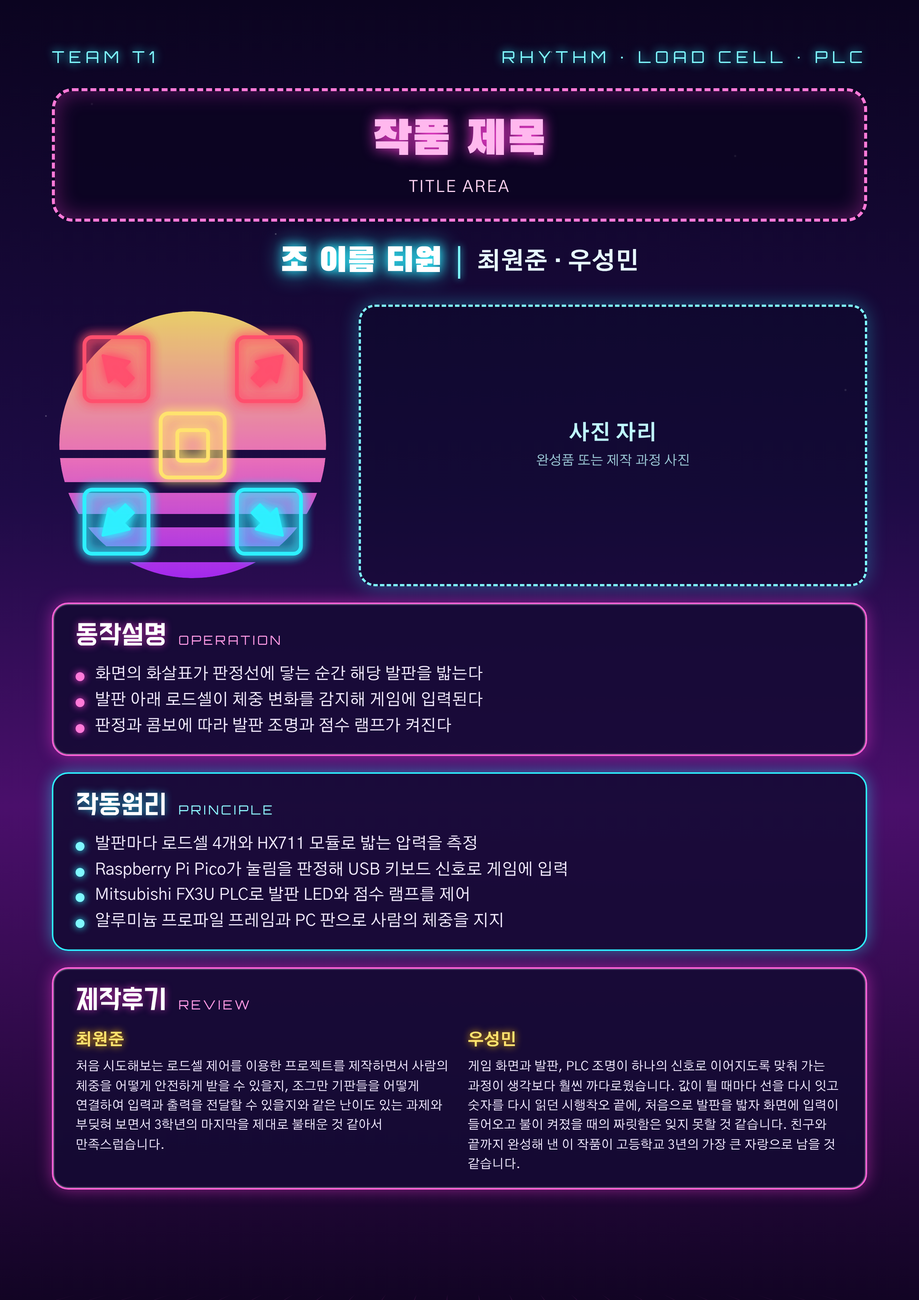
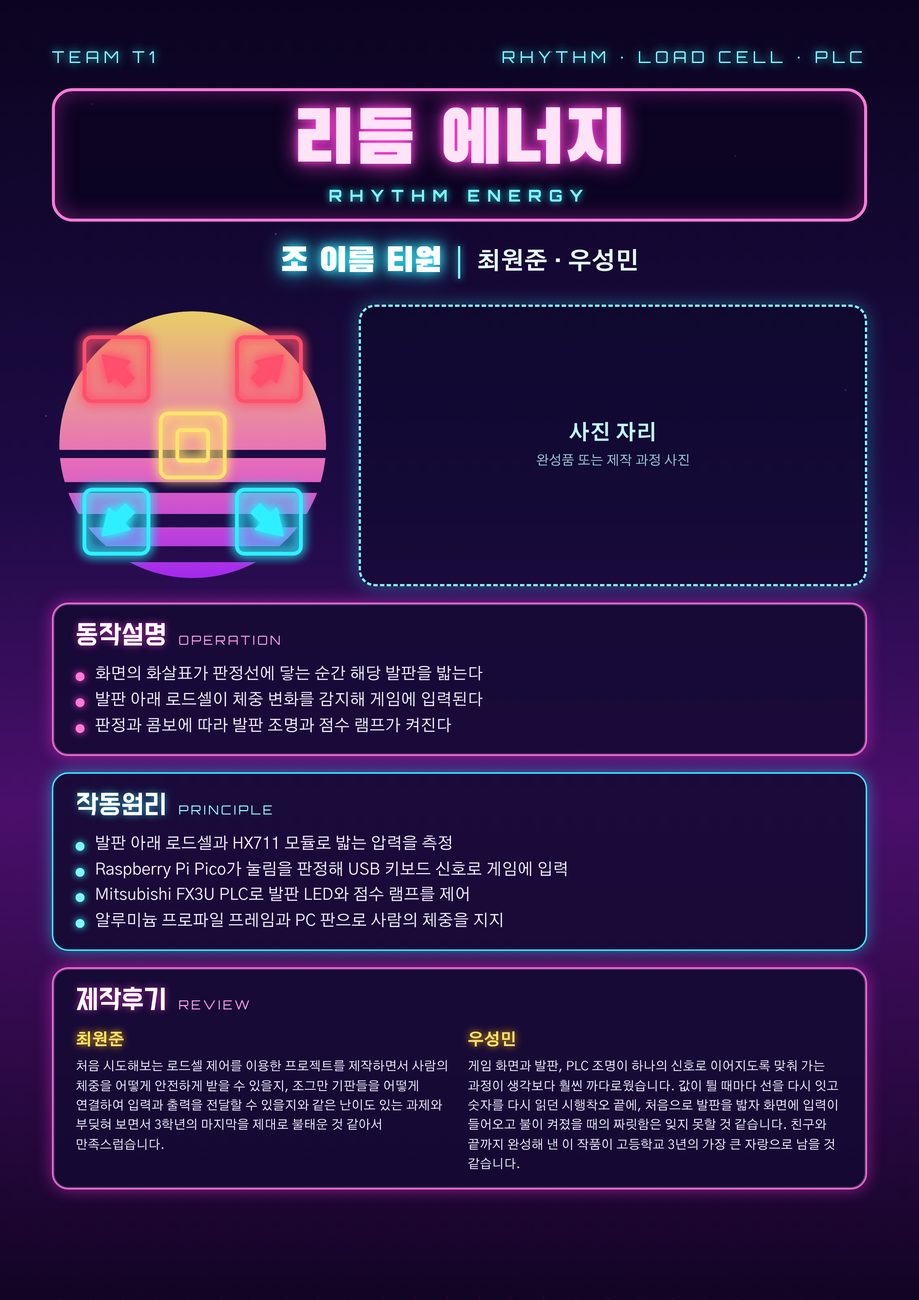
Promo panels: title 리듬 에너지 (RHYTHM ENERGY)
Claude-Session: https://claude.ai/code/session_017mQLC99LuXkG43AoP2QRiE

Changed region(s): [[0.3105, 0.0621, 0.7141, 0.1554], [0.2173, 0.6214, 0.4968, 0.6525], [0.1552, 0.6214, 0.1863, 0.6525]]

diff --git a/promo/panel-B.html b/promo/panel-B.html
@@ -13,8 +13,8 @@ body:after{content:"";position:absolute;inset:0;background:repeating-linear-grad
 .hud{display:flex;justify-content:space-between;font-family:Orbitron;font-weight:700;font-size:20px;letter-spacing:4px;color:#b6ff3b;text-shadow:0 0 10px #8cff00}
 .hud em{font-style:normal;color:#ff4fa8;text-shadow:0 0 10px #ff2a8a}
 .title{position:relative;margin-top:26px;height:200px;border:3px solid #b6ff3b;display:flex;flex-direction:column;align-items:center;justify-content:center;
- font-family:'Black Han Sans';font-size:62px;color:#d8ff9a;text-shadow:0 0 16px #8cff00;background:#b6ff3b0d}
-.title small{font-family:Orbitron;font-size:18px;letter-spacing:6px;margin-top:6px;color:#b6ff3baa;text-shadow:none}
+ font-family:'Black Han Sans';font-size:100px;line-height:1;color:#efffd6;text-shadow:0 0 10px #8cff00,0 0 28px #8cff00;background:#b6ff3b0d}
+.title small{font-family:Orbitron;font-weight:700;font-size:20px;letter-spacing:10px;margin-top:12px;color:#ff4fa8;text-shadow:0 0 10px #ff2a8a}
 .corner{position:absolute;width:26px;height:26px;border:5px solid #ff4fa8;box-shadow:0 0 10px #ff2a8a}
 .tl{left:-12px;top:-12px;border-right:0;border-bottom:0}.tr{right:-12px;top:-12px;border-left:0;border-bottom:0}
 .bl{left:-12px;bottom:-12px;border-right:0;border-top:0}.br{right:-12px;bottom:-12px;border-left:0;border-top:0}
@@ -46,12 +46,12 @@ body:after{content:"";position:absolute;inset:0;background:repeating-linear-grad
 .rv b{display:block;font-size:21px;color:#fff;margin-bottom:6px}
 </style></head><body><div class="lanes"><div class="lane"><div class="note" style="top:100px;background:#ff4f6d;box-shadow:0 0 14px #ff4f6d"></div><div class="note" style="top:160px;background:#ff4f6d;box-shadow:0 0 14px #ff4f6d"></div><div class="note" style="top:220px;background:#ff4f6d;box-shadow:0 0 14px #ff4f6d"></div><div class="note" style="top:280px;background:#ff4f6d;box-shadow:0 0 14px #ff4f6d"></div><div class="note" style="top:640px;background:#ff4f6d;box-shadow:0 0 14px #ff4f6d"></div><div class="note" style="top:760px;background:#ff4f6d;box-shadow:0 0 14px #ff4f6d"></div></div><div class="lane"><div class="note" style="top:100px;background:#2ef0ff;box-shadow:0 0 14px #2ef0ff"></div><div class="note" style="top:400px;background:#2ef0ff;box-shadow:0 0 14px #2ef0ff"></div><div class="note" style="top:700px;background:#2ef0ff;box-shadow:0 0 14px #2ef0ff"></div><div class="note" style="top:1000px;background:#2ef0ff;box-shadow:0 0 14px #2ef0ff"></div><div class="note" style="top:1120px;background:#2ef0ff;box-shadow:0 0 14px #2ef0ff"></div><div class="note" style="top:1180px;background:#2ef0ff;box-shadow:0 0 14px #2ef0ff"></div></div><div class="lane"><div class="note" style="top:160px;background:#ffe36e;box-shadow:0 0 14px #ffe36e"></div><div class="note" style="top:460px;background:#ffe36e;box-shadow:0 0 14px #ffe36e"></div><div class="note" style="top:820px;background:#ffe36e;box-shadow:0 0 14px #ffe36e"></div><div class="note" style="top:1120px;background:#ffe36e;box-shadow:0 0 14px #ffe36e"></div><div class="note" style="top:1240px;background:#ffe36e;box-shadow:0 0 14px #ffe36e"></div><div class="note" style="top:1300px;background:#ffe36e;box-shadow:0 0 14px #ffe36e"></div></div><div class="lane"><div class="note" style="top:100px;background:#2ef0ff;box-shadow:0 0 14px #2ef0ff"></div><div class="note" style="top:220px;background:#2ef0ff;box-shadow:0 0 14px #2ef0ff"></div><div class="note" style="top:460px;background:#2ef0ff;box-shadow:0 0 14px #2ef0ff"></div><div class="note" style="top:820px;background:#2ef0ff;box-shadow:0 0 14px #2ef0ff"></div><div class="note" style="top:1060px;background:#2ef0ff;box-shadow:0 0 14px #2ef0ff"></div><div class="note" style="top:1120px;background:#2ef0ff;box-shadow:0 0 14px #2ef0ff"></div></div><div class="lane"><div class="note" style="top:100px;background:#ff4f6d;box-shadow:0 0 14px #ff4f6d"></div><div class="note" style="top:760px;background:#ff4f6d;box-shadow:0 0 14px #ff4f6d"></div><div class="note" style="top:1120px;background:#ff4f6d;box-shadow:0 0 14px #ff4f6d"></div><div class="note" style="top:1180px;background:#ff4f6d;box-shadow:0 0 14px #ff4f6d"></div><div class="note" style="top:1240px;background:#ff4f6d;box-shadow:0 0 14px #ff4f6d"></div><div class="note" style="top:1300px;background:#ff4f6d;box-shadow:0 0 14px #ff4f6d"></div></div></div><div class="judge"></div><div class="wrap">
 <div class="hud"><span>STAGE 01</span><span><em>●</em> INSERT FOOT</span><span>SCORE 0000000</span></div>
-<div class="title"><span class="corner tl"></span><span class="corner tr"></span><span class="corner bl"></span><span class="corner br"></span>작품 제목<small>TITLE AREA</small></div>
+<div class="title"><span class="corner tl"></span><span class="corner tr"></span><span class="corner bl"></span><span class="corner br"></span>리듬 에너지<small>RHYTHM ENERGY</small></div>
 <div class="players"><div class="pl team"><span class="tag">TEAM</span><span class="nm">티원</span></div>
 <div class="pl"><span class="tag">1P</span><span class="nm">최원준</span></div><div class="pl"><span class="tag">2P</span><span class="nm">우성민</span></div></div>
 <div class="mid"><div class="padbox"><svg viewBox="-30 -30 360 360" width="300" height="300" style="overflow:visible" xmlns="http://www.w3.org/2000/svg"><defs><filter id="gb" filterUnits="userSpaceOnUse" x="-40" y="-40" width="380" height="380"><feGaussianBlur stdDeviation="7.0" result="b"/><feMerge><feMergeNode in="b"/><feMergeNode in="b"/><feMergeNode in="SourceGraphic"/></feMerge></filter></defs><rect x="8.0" y="8.0" width="84.0" height="84.0" rx="10.08" fill="#ff4f6d" fill-opacity="0.12" stroke="#ff4f6d" stroke-width="5" filter="url(#gb)"/><polygon points="32.2,32.2 40.2,66.9 48.2,58.9 61.6,72.3 72.3,61.6 58.9,48.2 66.9,40.2" fill="#ff4f6d" fill-opacity="0.9" stroke="#ff4f6d" stroke-width="3.5" stroke-linejoin="round" filter="url(#gb)"/><rect x="208.0" y="8.0" width="84.0" height="84.0" rx="10.08" fill="#ff4f6d" fill-opacity="0.12" stroke="#ff4f6d" stroke-width="5" filter="url(#gb)"/><polygon points="267.8,32.2 233.1,40.2 241.1,48.2 227.7,61.6 238.4,72.3 251.8,58.9 259.8,66.9" fill="#ff4f6d" fill-opacity="0.9" stroke="#ff4f6d" stroke-width="3.5" stroke-linejoin="round" filter="url(#gb)"/><rect x="108.0" y="108.0" width="84.0" height="84.0" rx="10.08" fill="#ffe36e" fill-opacity="0.12" stroke="#ffe36e" stroke-width="5" filter="url(#gb)"/><rect x="129.84" y="129.84" width="40.32" height="40.32" rx="5.04" fill="none" stroke="#ffe36e" stroke-width="5" filter="url(#gb)"/><rect x="8.0" y="208.0" width="84.0" height="84.0" rx="10.08" fill="#2ef0ff" fill-opacity="0.12" stroke="#2ef0ff" stroke-width="5" filter="url(#gb)"/><polygon points="32.2,267.8 66.9,259.8 58.9,251.8 72.3,238.4 61.6,227.7 48.2,241.1 40.2,233.1" fill="#2ef0ff" fill-opacity="0.9" stroke="#2ef0ff" stroke-width="3.5" stroke-linejoin="round" filter="url(#gb)"/><rect x="208.0" y="208.0" width="84.0" height="84.0" rx="10.08" fill="#2ef0ff" fill-opacity="0.12" stroke="#2ef0ff" stroke-width="5" filter="url(#gb)"/><polygon points="267.8,267.8 259.8,233.1 251.8,241.1 238.4,227.7 227.7,238.4 241.1,251.8 233.1,259.8" fill="#2ef0ff" fill-opacity="0.9" stroke="#2ef0ff" stroke-width="3.5" stroke-linejoin="round" filter="url(#gb)"/></svg></div><div class="photo">사진 자리<span>완성품 또는 제작 과정 사진</span></div></div>
 <div class="combo"><span class="p">PERFECT</span><span class="n">× 128 COMBO</span></div>
 <div class="sec"><div class="h"><b>동작설명</b><i>HOW TO PLAY</i></div><div class="li"><span class="dot"></span><span>화면의 화살표가 판정선에 닿는 순간 해당 발판을 밟는다</span></div><div class="li"><span class="dot"></span><span>발판 아래 로드셀이 체중 변화를 감지해 게임에 입력된다</span></div><div class="li"><span class="dot"></span><span>판정과 콤보에 따라 발판 조명과 점수 램프가 켜진다</span></div></div>
-<div class="sec p"><div class="h"><b>작동원리</b><i>SYSTEM</i></div><div class="li"><span class="dot"></span><span>발판마다 로드셀 4개와 HX711 모듈로 밟는 압력을 측정</span></div><div class="li"><span class="dot"></span><span>Raspberry Pi Pico가 눌림을 판정해 USB 키보드 신호로 게임에 입력</span></div><div class="li"><span class="dot"></span><span>Mitsubishi FX3U PLC로 발판 LED와 점수 램프를 제어</span></div><div class="li"><span class="dot"></span><span>알루미늄 프로파일 프레임과 PC 판으로 사람의 체중을 지지</span></div></div>
+<div class="sec p"><div class="h"><b>작동원리</b><i>SYSTEM</i></div><div class="li"><span class="dot"></span><span>발판 아래 로드셀과 HX711 모듈로 밟는 압력을 측정</span></div><div class="li"><span class="dot"></span><span>Raspberry Pi Pico가 눌림을 판정해 USB 키보드 신호로 게임에 입력</span></div><div class="li"><span class="dot"></span><span>Mitsubishi FX3U PLC로 발판 LED와 점수 램프를 제어</span></div><div class="li"><span class="dot"></span><span>알루미늄 프로파일 프레임과 PC 판으로 사람의 체중을 지지</span></div></div>
 <div class="sec r"><div class="h"><b>제작후기</b><i>STAFF COMMENT</i></div><div class="rev"><div class="rv"><b>최원준</b>처음 시도해보는 로드셀 제어를 이용한 프로젝트를 제작하면서 사람의 체중을 어떻게 안전하게 받을 수 있을지, 조그만 기판들을 어떻게 연결하여 입력과 출력을 전달할 수 있을지와 같은 난이도 있는 과제와 부딪혀 보면서 3학년의 마지막을 제대로 불태운 것 같아서 만족스럽습니다.</div><div class="rv"><b>우성민</b>게임 화면과 발판, PLC 조명이 하나의 신호로 이어지도록 맞춰 가는 과정이 생각보다 훨씬 까다로웠습니다. 값이 튈 때마다 선을 다시 잇고 숫자를 다시 읽던 시행착오 끝에, 처음으로 발판을 밟자 화면에 입력이 들어오고 불이 켜졌을 때의 짜릿함은 잊지 못할 것 같습니다. 친구와 끝까지 완성해 낸 이 작품이 고등학교 3년의 가장 큰 자랑으로 남을 것 같습니다.</div></div></div>
 </div></body></html>

diff --git a/promo/panel-A.html b/promo/panel-A.html
@@ -14,9 +14,9 @@ body{background:linear-gradient(180deg,#0b0420 0%,#1d0b45 38%,#4a0f6b 62%,#12042
  -webkit-mask:linear-gradient(180deg,transparent,#000 40%)}
 .wrap{position:absolute;inset:0;padding:64px 70px}
 .top{display:flex;justify-content:space-between;align-items:center;font-family:Orbitron;letter-spacing:6px;font-size:22px;color:#7ff9ff;text-shadow:0 0 12px #2ef0ff}
-.title{margin:28px auto 0;height:180px;border:4px dashed #ff7ad9;border-radius:28px;display:flex;flex-direction:column;align-items:center;justify-content:center;
- color:#ffb8ee;font-family:'Black Han Sans';font-size:64px;text-shadow:0 0 18px #ff3fd8;box-shadow:0 0 30px #ff3fd855 inset;background:#0b0420cc}
-.title small{font-family:'Gothic A1';font-size:22px;color:#ffd6f4;margin-top:8px;text-shadow:none;letter-spacing:2px}
+.title{margin:28px auto 0;height:180px;border:4px solid #ff7ad9;border-radius:28px;display:flex;flex-direction:column;align-items:center;justify-content:center;
+ color:#ffe3f6;font-family:'Black Han Sans';font-size:100px;line-height:1;text-shadow:0 0 10px #ff3fd8,0 0 30px #ff3fd8;box-shadow:0 0 30px #ff3fd855 inset;background:#0b0420cc}
+.title small{font-family:Orbitron;font-weight:700;font-size:22px;color:#7ff9ff;margin-top:12px;text-shadow:0 0 10px #2ef0ff;letter-spacing:10px}
 .team{margin-top:26px;display:flex;align-items:center;gap:22px;justify-content:center}
 .team .name{font-family:'Black Han Sans';font-size:46px;color:#fff;text-shadow:0 0 14px #2ef0ff,0 0 30px #2ef0ff}
 .team .bar{width:3px;height:44px;background:#7ff9ff;box-shadow:0 0 10px #2ef0ff}
@@ -40,10 +40,10 @@ body{background:linear-gradient(180deg,#0b0420 0%,#1d0b45 38%,#4a0f6b 62%,#12042
 .rv b{display:block;font-size:22px;color:#ffe36e;margin-bottom:6px;text-shadow:0 0 10px #ffb800}
 </style></head><body><div class="stars"></div><div class="sun"></div><div class="floor"></div><div class="wrap">
 <div class="top"><span>TEAM T1</span><span>RHYTHM · LOAD CELL · PLC</span></div>
-<div class="title">작품 제목<small>TITLE AREA</small></div>
+<div class="title">리듬 에너지<small>RHYTHM ENERGY</small></div>
 <div class="team"><span class="name">조 이름 티원</span><span class="bar"></span><span class="mem">최원준 · 우성민</span></div>
 <div class="mid"><div class="padbox"><svg viewBox="-30 -30 420 420" width="360" height="360" style="overflow:visible" xmlns="http://www.w3.org/2000/svg"><defs><filter id="g" filterUnits="userSpaceOnUse" x="-40" y="-40" width="440" height="440"><feGaussianBlur stdDeviation="8.399999999999999" result="b"/><feMerge><feMergeNode in="b"/><feMergeNode in="b"/><feMergeNode in="SourceGraphic"/></feMerge></filter></defs><rect x="9.6" y="9.6" width="100.8" height="100.8" rx="12.096" fill="#ff4f6d" fill-opacity="0.15" stroke="#ff4f6d" stroke-width="6" filter="url(#g)"/><polygon points="38.6,38.6 48.2,80.3 57.9,70.7 73.9,86.7 86.7,73.9 70.7,57.9 80.3,48.2" fill="#ff4f6d" fill-opacity="0.9" stroke="#ff4f6d" stroke-width="4.199999999999999" stroke-linejoin="round" filter="url(#g)"/><rect x="249.6" y="9.6" width="100.8" height="100.8" rx="12.096" fill="#ff4f6d" fill-opacity="0.15" stroke="#ff4f6d" stroke-width="6" filter="url(#g)"/><polygon points="321.4,38.6 279.7,48.2 289.3,57.9 273.3,73.9 286.1,86.7 302.1,70.7 311.8,80.3" fill="#ff4f6d" fill-opacity="0.9" stroke="#ff4f6d" stroke-width="4.199999999999999" stroke-linejoin="round" filter="url(#g)"/><rect x="129.6" y="129.6" width="100.8" height="100.8" rx="12.096" fill="#ffe36e" fill-opacity="0.15" stroke="#ffe36e" stroke-width="6" filter="url(#g)"/><rect x="155.808" y="155.808" width="48.384" height="48.384" rx="6.048" fill="none" stroke="#ffe36e" stroke-width="6" filter="url(#g)"/><rect x="9.6" y="249.6" width="100.8" height="100.8" rx="12.096" fill="#2ef0ff" fill-opacity="0.15" stroke="#2ef0ff" stroke-width="6" filter="url(#g)"/><polygon points="38.6,321.4 80.3,311.8 70.7,302.1 86.7,286.1 73.9,273.3 57.9,289.3 48.2,279.7" fill="#2ef0ff" fill-opacity="0.9" stroke="#2ef0ff" stroke-width="4.199999999999999" stroke-linejoin="round" filter="url(#g)"/><rect x="249.6" y="249.6" width="100.8" height="100.8" rx="12.096" fill="#2ef0ff" fill-opacity="0.15" stroke="#2ef0ff" stroke-width="6" filter="url(#g)"/><polygon points="321.4,321.4 311.8,279.7 302.1,289.3 286.1,273.3 273.3,286.1 289.3,302.1 279.7,311.8" fill="#2ef0ff" fill-opacity="0.9" stroke="#2ef0ff" stroke-width="4.199999999999999" stroke-linejoin="round" filter="url(#g)"/></svg></div><div class="photo">사진 자리<span>완성품 또는 제작 과정 사진</span></div></div>
 <div class="card"><div class="h"><b>동작설명</b><i>OPERATION</i></div><div class="li"><span class="dot"></span><span>화면의 화살표가 판정선에 닿는 순간 해당 발판을 밟는다</span></div><div class="li"><span class="dot"></span><span>발판 아래 로드셀이 체중 변화를 감지해 게임에 입력된다</span></div><div class="li"><span class="dot"></span><span>판정과 콤보에 따라 발판 조명과 점수 램프가 켜진다</span></div></div>
-<div class="card c"><div class="h"><b>작동원리</b><i>PRINCIPLE</i></div><div class="li"><span class="dot"></span><span>발판마다 로드셀 4개와 HX711 모듈로 밟는 압력을 측정</span></div><div class="li"><span class="dot"></span><span>Raspberry Pi Pico가 눌림을 판정해 USB 키보드 신호로 게임에 입력</span></div><div class="li"><span class="dot"></span><span>Mitsubishi FX3U PLC로 발판 LED와 점수 램프를 제어</span></div><div class="li"><span class="dot"></span><span>알루미늄 프로파일 프레임과 PC 판으로 사람의 체중을 지지</span></div></div>
+<div class="card c"><div class="h"><b>작동원리</b><i>PRINCIPLE</i></div><div class="li"><span class="dot"></span><span>발판 아래 로드셀과 HX711 모듈로 밟는 압력을 측정</span></div><div class="li"><span class="dot"></span><span>Raspberry Pi Pico가 눌림을 판정해 USB 키보드 신호로 게임에 입력</span></div><div class="li"><span class="dot"></span><span>Mitsubishi FX3U PLC로 발판 LED와 점수 램프를 제어</span></div><div class="li"><span class="dot"></span><span>알루미늄 프로파일 프레임과 PC 판으로 사람의 체중을 지지</span></div></div>
 <div class="card"><div class="h"><b>제작후기</b><i>REVIEW</i></div><div class="rev"><div class="rv"><b>최원준</b>처음 시도해보는 로드셀 제어를 이용한 프로젝트를 제작하면서 사람의 체중을 어떻게 안전하게 받을 수 있을지, 조그만 기판들을 어떻게 연결하여 입력과 출력을 전달할 수 있을지와 같은 난이도 있는 과제와 부딪혀 보면서 3학년의 마지막을 제대로 불태운 것 같아서 만족스럽습니다.</div><div class="rv"><b>우성민</b>게임 화면과 발판, PLC 조명이 하나의 신호로 이어지도록 맞춰 가는 과정이 생각보다 훨씬 까다로웠습니다. 값이 튈 때마다 선을 다시 잇고 숫자를 다시 읽던 시행착오 끝에, 처음으로 발판을 밟자 화면에 입력이 들어오고 불이 켜졌을 때의 짜릿함은 잊지 못할 것 같습니다. 친구와 끝까지 완성해 낸 이 작품이 고등학교 3년의 가장 큰 자랑으로 남을 것 같습니다.</div></div></div>
 </div></body></html>

diff --git a/promo/panel-C.html b/promo/panel-C.html
@@ -9,9 +9,9 @@ body{color:#fff3ea;position:relative;
  repeating-linear-gradient(90deg,#00000044 0 3px,transparent 3px 140px),#1a1418}
 .wrap{position:absolute;inset:0;padding:70px 76px}
 .title{height:230px;border-radius:120px;border:6px solid #ff5aa0;display:flex;flex-direction:column;align-items:center;justify-content:center;
- box-shadow:0 0 14px #ff5aa0,0 0 44px #ff2d7a,inset 0 0 14px #ff5aa0,inset 0 0 40px #ff2d7a88;font-family:Jua;font-size:66px;color:#ffe3ef;
+ box-shadow:0 0 14px #ff5aa0,0 0 44px #ff2d7a,inset 0 0 14px #ff5aa0,inset 0 0 40px #ff2d7a88;font-family:Jua;font-size:104px;line-height:1;color:#fff0f6;
  text-shadow:0 0 8px #ff7ab4,0 0 24px #ff2d7a}
-.title small{font-family:'Gothic A1';font-size:22px;letter-spacing:3px;margin-top:6px;text-shadow:0 0 8px #ff2d7a;color:#ffc6dc}
+.title small{font-family:Orbitron;font-weight:700;font-size:22px;letter-spacing:10px;margin-top:10px;text-shadow:0 0 8px #ff2d7a;color:#ffc6dc}
 .team{margin-top:34px;text-align:center}
 .team .t{font-family:Monoton;font-size:62px;color:#fff6c7;letter-spacing:6px;text-shadow:0 0 6px #ffcf3f,0 0 22px #ff9b00,0 0 44px #ff9b00}
 .team .k{font-family:Jua;font-size:40px;color:#fff6c7;text-shadow:0 0 10px #ff9b00;margin-left:10px}
@@ -36,10 +36,10 @@ body{color:#fff3ea;position:relative;
 .rv{flex:1;font-size:18px;line-height:1.6}
 .rv b{display:block;font-family:Jua;font-size:26px;font-weight:400;color:#e7dbff;text-shadow:0 0 10px #7a3dff;margin-bottom:4px}
 </style></head><body><div class="wrap">
-<div class="title">작품 제목<small>TITLE AREA</small></div>
+<div class="title">리듬 에너지<small>RHYTHM ENERGY</small></div>
 <div class="team"><span class="t">T1</span><span class="k">티원</span><div class="m">최원준 ✦ 우성민</div></div>
 <div class="mid"><div class="padbox"><svg viewBox="-30 -30 450 450" width="390" height="390" style="overflow:visible" xmlns="http://www.w3.org/2000/svg"><defs><filter id="gc" filterUnits="userSpaceOnUse" x="-40" y="-40" width="470" height="470"><feGaussianBlur stdDeviation="9.799999999999999" result="b"/><feMerge><feMergeNode in="b"/><feMergeNode in="b"/><feMergeNode in="SourceGraphic"/></feMerge></filter></defs><rect x="10.4" y="10.4" width="109.2" height="109.2" rx="13.104" fill="#ff5aa0" fill-opacity="0.0" stroke="#ff5aa0" stroke-width="7" filter="url(#gc)"/><polygon points="41.8,41.8 52.3,87.0 62.7,76.6 80.1,94.0 94.0,80.1 76.6,62.7 87.0,52.3" fill="none" fill-opacity="0" stroke="#ff5aa0" stroke-width="4.8999999999999995" stroke-linejoin="round" filter="url(#gc)"/><rect x="270.4" y="10.4" width="109.2" height="109.2" rx="13.104" fill="#ff5aa0" fill-opacity="0.0" stroke="#ff5aa0" stroke-width="7" filter="url(#gc)"/><polygon points="348.2,41.8 303.0,52.3 313.4,62.7 296.0,80.1 309.9,94.0 327.3,76.6 337.7,87.0" fill="none" fill-opacity="0" stroke="#ff5aa0" stroke-width="4.8999999999999995" stroke-linejoin="round" filter="url(#gc)"/><rect x="140.4" y="140.4" width="109.2" height="109.2" rx="13.104" fill="#ffcf3f" fill-opacity="0.0" stroke="#ffcf3f" stroke-width="7" filter="url(#gc)"/><rect x="168.792" y="168.792" width="52.416" height="52.416" rx="6.552" fill="none" stroke="#ffcf3f" stroke-width="7" filter="url(#gc)"/><rect x="10.4" y="270.4" width="109.2" height="109.2" rx="13.104" fill="#57f0ff" fill-opacity="0.0" stroke="#57f0ff" stroke-width="7" filter="url(#gc)"/><polygon points="41.8,348.2 87.0,337.7 76.6,327.3 94.0,309.9 80.1,296.0 62.7,313.4 52.3,303.0" fill="none" fill-opacity="0" stroke="#57f0ff" stroke-width="4.8999999999999995" stroke-linejoin="round" filter="url(#gc)"/><rect x="270.4" y="270.4" width="109.2" height="109.2" rx="13.104" fill="#57f0ff" fill-opacity="0.0" stroke="#57f0ff" stroke-width="7" filter="url(#gc)"/><polygon points="348.2,348.2 337.7,303.0 327.3,313.4 309.9,296.0 296.0,309.9 313.4,327.3 303.0,337.7" fill="none" fill-opacity="0" stroke="#57f0ff" stroke-width="4.8999999999999995" stroke-linejoin="round" filter="url(#gc)"/></svg></div><div class="photo">사진 자리<span>완성품 또는 제작 과정 사진</span></div></div>
 <div class="row"><div class="box"><div class="h">동작설명<i>OPERATION</i></div><div class="li"><span class="dot"></span><span>화면의 화살표가 판정선에 닿는 순간 해당 발판을 밟는다</span></div><div class="li"><span class="dot"></span><span>발판 아래 로드셀이 체중 변화를 감지해 게임에 입력된다</span></div><div class="li"><span class="dot"></span><span>판정과 콤보에 따라 발판 조명과 점수 램프가 켜진다</span></div></div>
-<div class="box o"><div class="h">작동원리<i>PRINCIPLE</i></div><div class="li"><span class="dot"></span><span>발판마다 로드셀 4개와 HX711 모듈로 밟는 압력을 측정</span></div><div class="li"><span class="dot"></span><span>Raspberry Pi Pico가 눌림을 판정해 USB 키보드 신호로 게임에 입력</span></div><div class="li"><span class="dot"></span><span>Mitsubishi FX3U PLC로 발판 LED와 점수 램프를 제어</span></div><div class="li"><span class="dot"></span><span>알루미늄 프로파일 프레임과 PC 판으로 사람의 체중을 지지</span></div></div></div>
+<div class="box o"><div class="h">작동원리<i>PRINCIPLE</i></div><div class="li"><span class="dot"></span><span>발판 아래 로드셀과 HX711 모듈로 밟는 압력을 측정</span></div><div class="li"><span class="dot"></span><span>Raspberry Pi Pico가 눌림을 판정해 USB 키보드 신호로 게임에 입력</span></div><div class="li"><span class="dot"></span><span>Mitsubishi FX3U PLC로 발판 LED와 점수 램프를 제어</span></div><div class="li"><span class="dot"></span><span>알루미늄 프로파일 프레임과 PC 판으로 사람의 체중을 지지</span></div></div></div>
 <div class="revbox"><div class="h">제작후기<i>REVIEW</i></div><div class="rev"><div class="rv"><b>최원준</b>처음 시도해보는 로드셀 제어를 이용한 프로젝트를 제작하면서 사람의 체중을 어떻게 안전하게 받을 수 있을지, 조그만 기판들을 어떻게 연결하여 입력과 출력을 전달할 수 있을지와 같은 난이도 있는 과제와 부딪혀 보면서 3학년의 마지막을 제대로 불태운 것 같아서 만족스럽습니다.</div><div class="rv"><b>우성민</b>게임 화면과 발판, PLC 조명이 하나의 신호로 이어지도록 맞춰 가는 과정이 생각보다 훨씬 까다로웠습니다. 값이 튈 때마다 선을 다시 잇고 숫자를 다시 읽던 시행착오 끝에, 처음으로 발판을 밟자 화면에 입력이 들어오고 불이 켜졌을 때의 짜릿함은 잊지 못할 것 같습니다. 친구와 끝까지 완성해 낸 이 작품이 고등학교 3년의 가장 큰 자랑으로 남을 것 같습니다.</div></div></div>
 </div></body></html>

diff --git a/promo/shot.js b/promo/shot.js
@@ -1,0 +1,6 @@
+const {chromium}=require('playwright');
+(async()=>{const b=await chromium.launch();const sc=+process.argv[2]||1;
+const pg=await b.newPage({viewport:{width:1240,height:1754},deviceScaleFactor:sc});
+for(const k of ['A','B','C']){await pg.goto('file://'+process.cwd()+'/panel-'+k+'.html');await pg.evaluate(()=>document.fonts.ready);await pg.waitForTimeout(300);
+await pg.screenshot({path:sc>1?`panel-${k}.png`:`/tmp/claude-0/-home-user-T1/736b6a9f-dd31-5e79-a9b4-0e9c223a8265/scratchpad/pv-${k}.png`});}
+await b.close();})();

diff --git a/promo/build.py b/promo/build.py
@@ -20,9 +20,9 @@ body{background:linear-gradient(180deg,#0b0420 0%,#1d0b45 38%,#4a0f6b 62%,#12042
  -webkit-mask:linear-gradient(180deg,transparent,#000 40%)}
 .wrap{position:absolute;inset:0;padding:64px 70px}
 .top{display:flex;justify-content:space-between;align-items:center;font-family:Orbitron;letter-spacing:6px;font-size:22px;color:#7ff9ff;text-shadow:0 0 12px #2ef0ff}
-.title{margin:28px auto 0;height:180px;border:4px dashed #ff7ad9;border-radius:28px;display:flex;flex-direction:column;align-items:center;justify-content:center;
- color:#ffb8ee;font-family:'Black Han Sans';font-size:64px;text-shadow:0 0 18px #ff3fd8;box-shadow:0 0 30px #ff3fd855 inset;background:#0b0420cc}
-.title small{font-family:'Gothic A1';font-size:22px;color:#ffd6f4;margin-top:8px;text-shadow:none;letter-spacing:2px}
+.title{margin:28px auto 0;height:180px;border:4px solid #ff7ad9;border-radius:28px;display:flex;flex-direction:column;align-items:center;justify-content:center;
+ color:#ffe3f6;font-family:'Black Han Sans';font-size:100px;line-height:1;text-shadow:0 0 10px #ff3fd8,0 0 30px #ff3fd8;box-shadow:0 0 30px #ff3fd855 inset;background:#0b0420cc}
+.title small{font-family:Orbitron;font-weight:700;font-size:22px;color:#7ff9ff;margin-top:12px;text-shadow:0 0 10px #2ef0ff;letter-spacing:10px}
 .team{margin-top:26px;display:flex;align-items:center;gap:22px;justify-content:center}
 .team .name{font-family:'Black Han Sans';font-size:46px;color:#fff;text-shadow:0 0 14px #2ef0ff,0 0 30px #2ef0ff}
 .team .bar{width:3px;height:44px;background:#7ff9ff;box-shadow:0 0 10px #2ef0ff}
@@ -49,7 +49,7 @@ def variantA():
     pad=pad_svg(360,{'ul':'#ff4f6d','ur':'#ff4f6d','c':'#ffe36e','dl':'#2ef0ff','dr':'#2ef0ff'},stroke=6,fill_alpha=0.15)
     b=f"""<div class="stars"></div><div class="sun"></div><div class="floor"></div><div class="wrap">
 <div class="top"><span>{TEAM_EN}</span><span>RHYTHM · LOAD CELL · PLC</span></div>
-<div class="title">작품 제목<small>TITLE AREA</small></div>
+<div class="title">리듬 에너지<small>RHYTHM ENERGY</small></div>
 <div class="team"><span class="name">조 이름 {TEAM}</span><span class="bar"></span><span class="mem">{' · '.join(MEMBERS)}</span></div>
 <div class="mid"><div class="padbox">{pad}</div><div class="photo">사진 자리<span>완성품 또는 제작 과정 사진</span></div></div>
 <div class="card"><div class="h"><b>동작설명</b><i>OPERATION</i></div>{li(OPS)}</div>
@@ -70,8 +70,8 @@ body:after{content:"";position:absolute;inset:0;background:repeating-linear-grad
 .hud{display:flex;justify-content:space-between;font-family:Orbitron;font-weight:700;font-size:20px;letter-spacing:4px;color:#b6ff3b;text-shadow:0 0 10px #8cff00}
 .hud em{font-style:normal;color:#ff4fa8;text-shadow:0 0 10px #ff2a8a}
 .title{position:relative;margin-top:26px;height:200px;border:3px solid #b6ff3b;display:flex;flex-direction:column;align-items:center;justify-content:center;
- font-family:'Black Han Sans';font-size:62px;color:#d8ff9a;text-shadow:0 0 16px #8cff00;background:#b6ff3b0d}
-.title small{font-family:Orbitron;font-size:18px;letter-spacing:6px;margin-top:6px;color:#b6ff3baa;text-shadow:none}
+ font-family:'Black Han Sans';font-size:100px;line-height:1;color:#efffd6;text-shadow:0 0 10px #8cff00,0 0 28px #8cff00;background:#b6ff3b0d}
+.title small{font-family:Orbitron;font-weight:700;font-size:20px;letter-spacing:10px;margin-top:12px;color:#ff4fa8;text-shadow:0 0 10px #ff2a8a}
 .corner{position:absolute;width:26px;height:26px;border:5px solid #ff4fa8;box-shadow:0 0 10px #ff2a8a}
 .tl{left:-12px;top:-12px;border-right:0;border-bottom:0}.tr{right:-12px;top:-12px;border-left:0;border-bottom:0}
 .bl{left:-12px;bottom:-12px;border-right:0;border-top:0}.br{right:-12px;bottom:-12px;border-left:0;border-top:0}
@@ -112,7 +112,7 @@ def variantB():
     pad=pad_svg(300,{'ul':'#ff4f6d','ur':'#ff4f6d','c':'#ffe36e','dl':'#2ef0ff','dr':'#2ef0ff'},stroke=5,fill_alpha=0.12,gid="gb")
     b=f"""<div class="lanes">{lanes}</div><div class="judge"></div><div class="wrap">
 <div class="hud"><span>STAGE 01</span><span><em>●</em> INSERT FOOT</span><span>SCORE 0000000</span></div>
-<div class="title"><span class="corner tl"></span><span class="corner tr"></span><span class="corner bl"></span><span class="corner br"></span>작품 제목<small>TITLE AREA</small></div>
+<div class="title"><span class="corner tl"></span><span class="corner tr"></span><span class="corner bl"></span><span class="corner br"></span>리듬 에너지<small>RHYTHM ENERGY</small></div>
 <div class="players"><div class="pl team"><span class="tag">TEAM</span><span class="nm">{TEAM}</span></div>
 <div class="pl"><span class="tag">1P</span><span class="nm">{MEMBERS[0]}</span></div><div class="pl"><span class="tag">2P</span><span class="nm">{MEMBERS[1]}</span></div></div>
 <div class="mid"><div class="padbox">{pad}</div><div class="photo">사진 자리<span>완성품 또는 제작 과정 사진</span></div></div>
@@ -131,9 +131,9 @@ body{color:#fff3ea;position:relative;
  repeating-linear-gradient(90deg,#00000044 0 3px,transparent 3px 140px),#1a1418}
 .wrap{position:absolute;inset:0;padding:70px 76px}
 .title{height:230px;border-radius:120px;border:6px solid #ff5aa0;display:flex;flex-direction:column;align-items:center;justify-content:center;
- box-shadow:0 0 14px #ff5aa0,0 0 44px #ff2d7a,inset 0 0 14px #ff5aa0,inset 0 0 40px #ff2d7a88;font-family:Jua;font-size:66px;color:#ffe3ef;
+ box-shadow:0 0 14px #ff5aa0,0 0 44px #ff2d7a,inset 0 0 14px #ff5aa0,inset 0 0 40px #ff2d7a88;font-family:Jua;font-size:104px;line-height:1;color:#fff0f6;
  text-shadow:0 0 8px #ff7ab4,0 0 24px #ff2d7a}
-.title small{font-family:'Gothic A1';font-size:22px;letter-spacing:3px;margin-top:6px;text-shadow:0 0 8px #ff2d7a;color:#ffc6dc}
+.title small{font-family:Orbitron;font-weight:700;font-size:22px;letter-spacing:10px;margin-top:10px;text-shadow:0 0 8px #ff2d7a;color:#ffc6dc}
 .team{margin-top:34px;text-align:center}
 .team .t{font-family:Monoton;font-size:62px;color:#fff6c7;letter-spacing:6px;text-shadow:0 0 6px #ffcf3f,0 0 22px #ff9b00,0 0 44px #ff9b00}
 .team .k{font-family:Jua;font-size:40px;color:#fff6c7;text-shadow:0 0 10px #ff9b00;margin-left:10px}
@@ -161,7 +161,7 @@ body{color:#fff3ea;position:relative;
 def variantC():
     pad=pad_svg(390,{'ul':'#ff5aa0','ur':'#ff5aa0','c':'#ffcf3f','dl':'#57f0ff','dr':'#57f0ff'},stroke=7,fill_alpha=0.0,tube=True,gid="gc")
     b=f"""<div class="wrap">
-<div class="title">작품 제목<small>TITLE AREA</small></div>
+<div class="title">리듬 에너지<small>RHYTHM ENERGY</small></div>
 <div class="team"><span class="t">T1</span><span class="k">티원</span><div class="m">{' ✦ '.join(MEMBERS)}</div></div>
 <div class="mid"><div class="padbox">{pad}</div><div class="photo">사진 자리<span>완성품 또는 제작 과정 사진</span></div></div>
 <div class="row"><div class="box"><div class="h">동작설명<i>OPERATION</i></div>{li(OPS)}</div>

diff --git a/promo/content.py b/promo/content.py
@@ -3,7 +3,7 @@ MEMBERS=["최원준","우성민"]
 OPS=["화면의 화살표가 판정선에 닿는 순간 해당 발판을 밟는다",
      "발판 아래 로드셀이 체중 변화를 감지해 게임에 입력된다",
      "판정과 콤보에 따라 발판 조명과 점수 램프가 켜진다"]
-PRIN=["발판마다 로드셀 4개와 HX711 모듈로 밟는 압력을 측정",
+PRIN=["발판 아래 로드셀과 HX711 모듈로 밟는 압력을 측정",
       "Raspberry Pi Pico가 눌림을 판정해 USB 키보드 신호로 게임에 입력",
       "Mitsubishi FX3U PLC로 발판 LED와 점수 램프를 제어",
       "알루미늄 프로파일 프레임과 PC 판으로 사람의 체중을 지지"]
